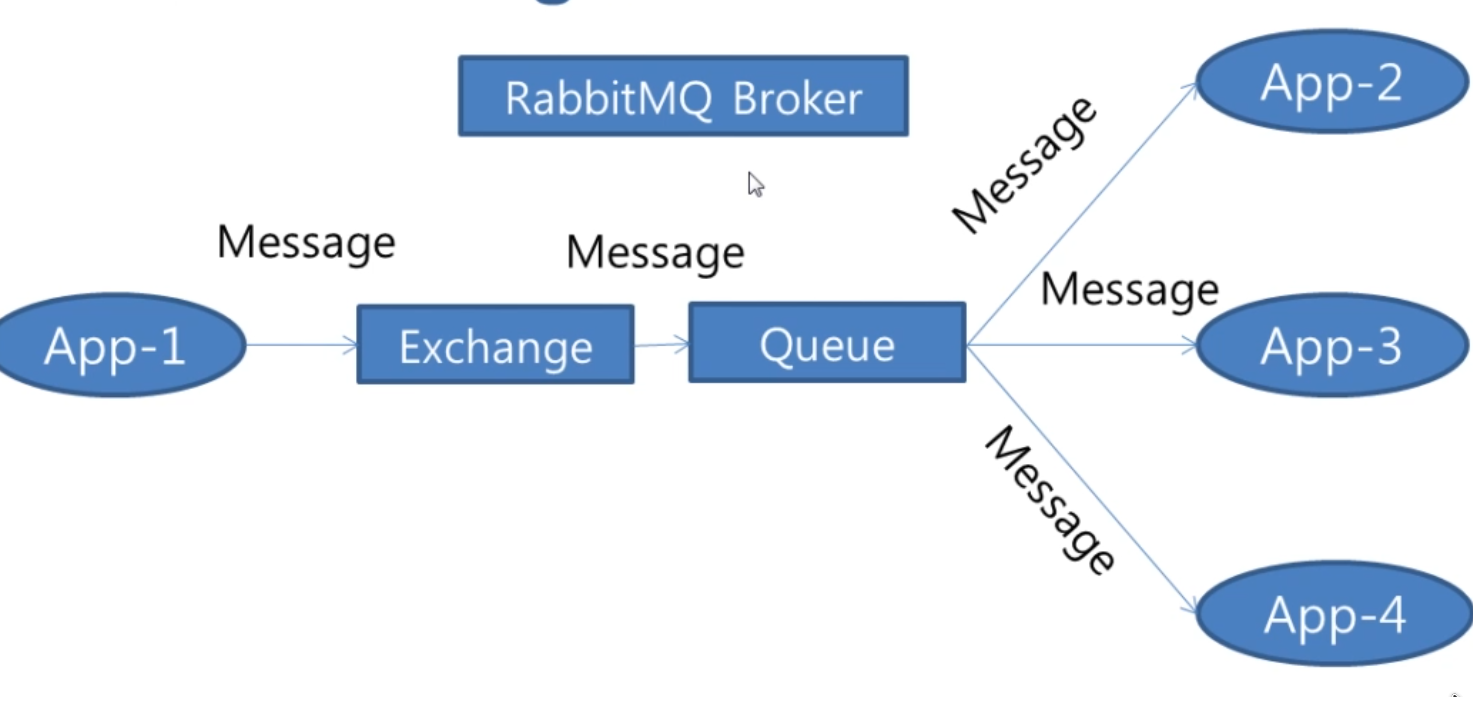
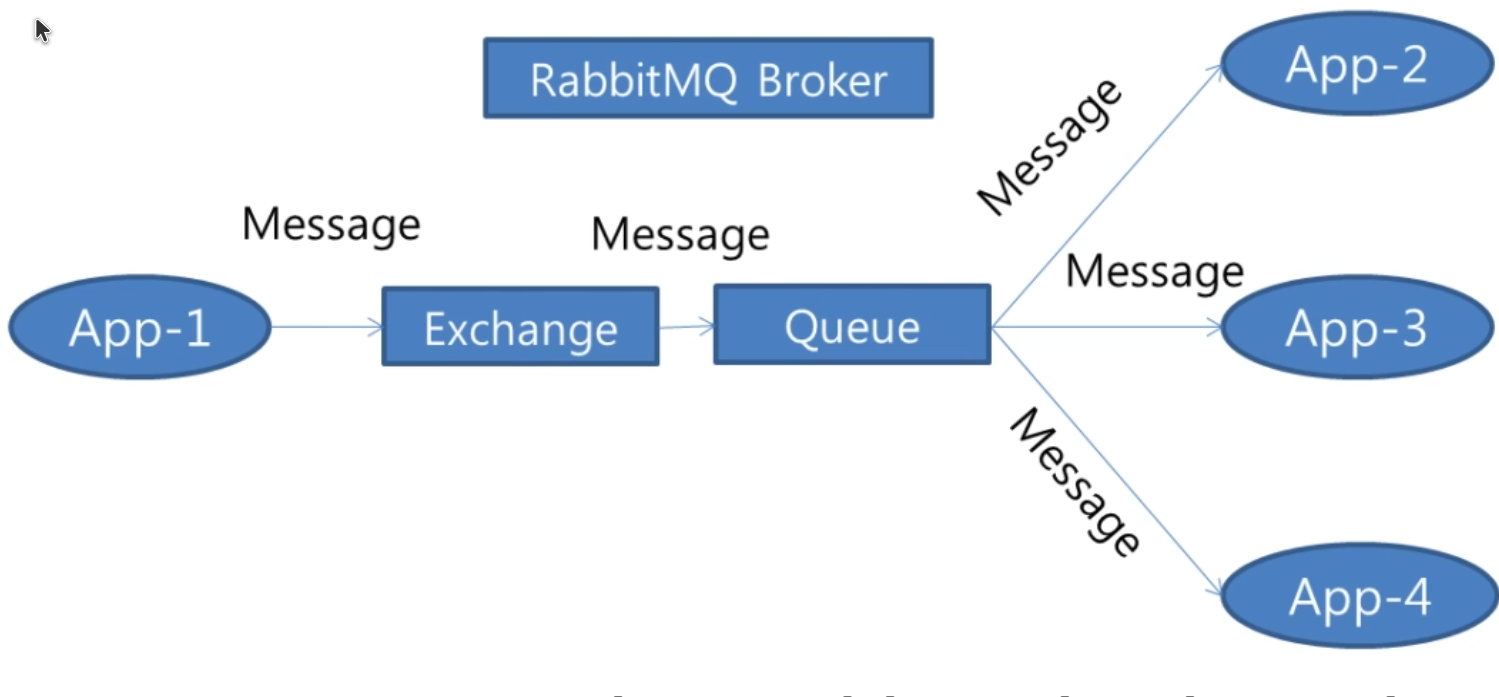
chore: direct exchange

diff --git a/README.MD b/README.MD
@@ -42,6 +42,8 @@ docker run -d \
   -p 15672:15672 \
   rabbitmq:4.3.1-management-alpine
 
+docker start rabbitmq
+
 # http://localhost:15672
 # username: guest
 # password: guest
@@ -85,6 +87,17 @@ docker run -d \
 or
 
 - `rabbitmqctl purge_queue Queue-1`
+
+## Direct exchange
+
+- <img src="./_forReadme/image copy 6.png" style="width: 550px" />
+
+- Go to: Exchanges -> Add new exchange -> name:"Direct-Exchanges", type: Direct
+  - create 3 queues(Classic): AC, Mobile, TV
+- Go to Exchange: Direct-Exchanges
+  - add bindings: AC -> routingKey: ac
+  - add bindings: TV -> routingKey: tv
+  - add bindings: Mobile -> routingKey: mobile
 
 ## References
 